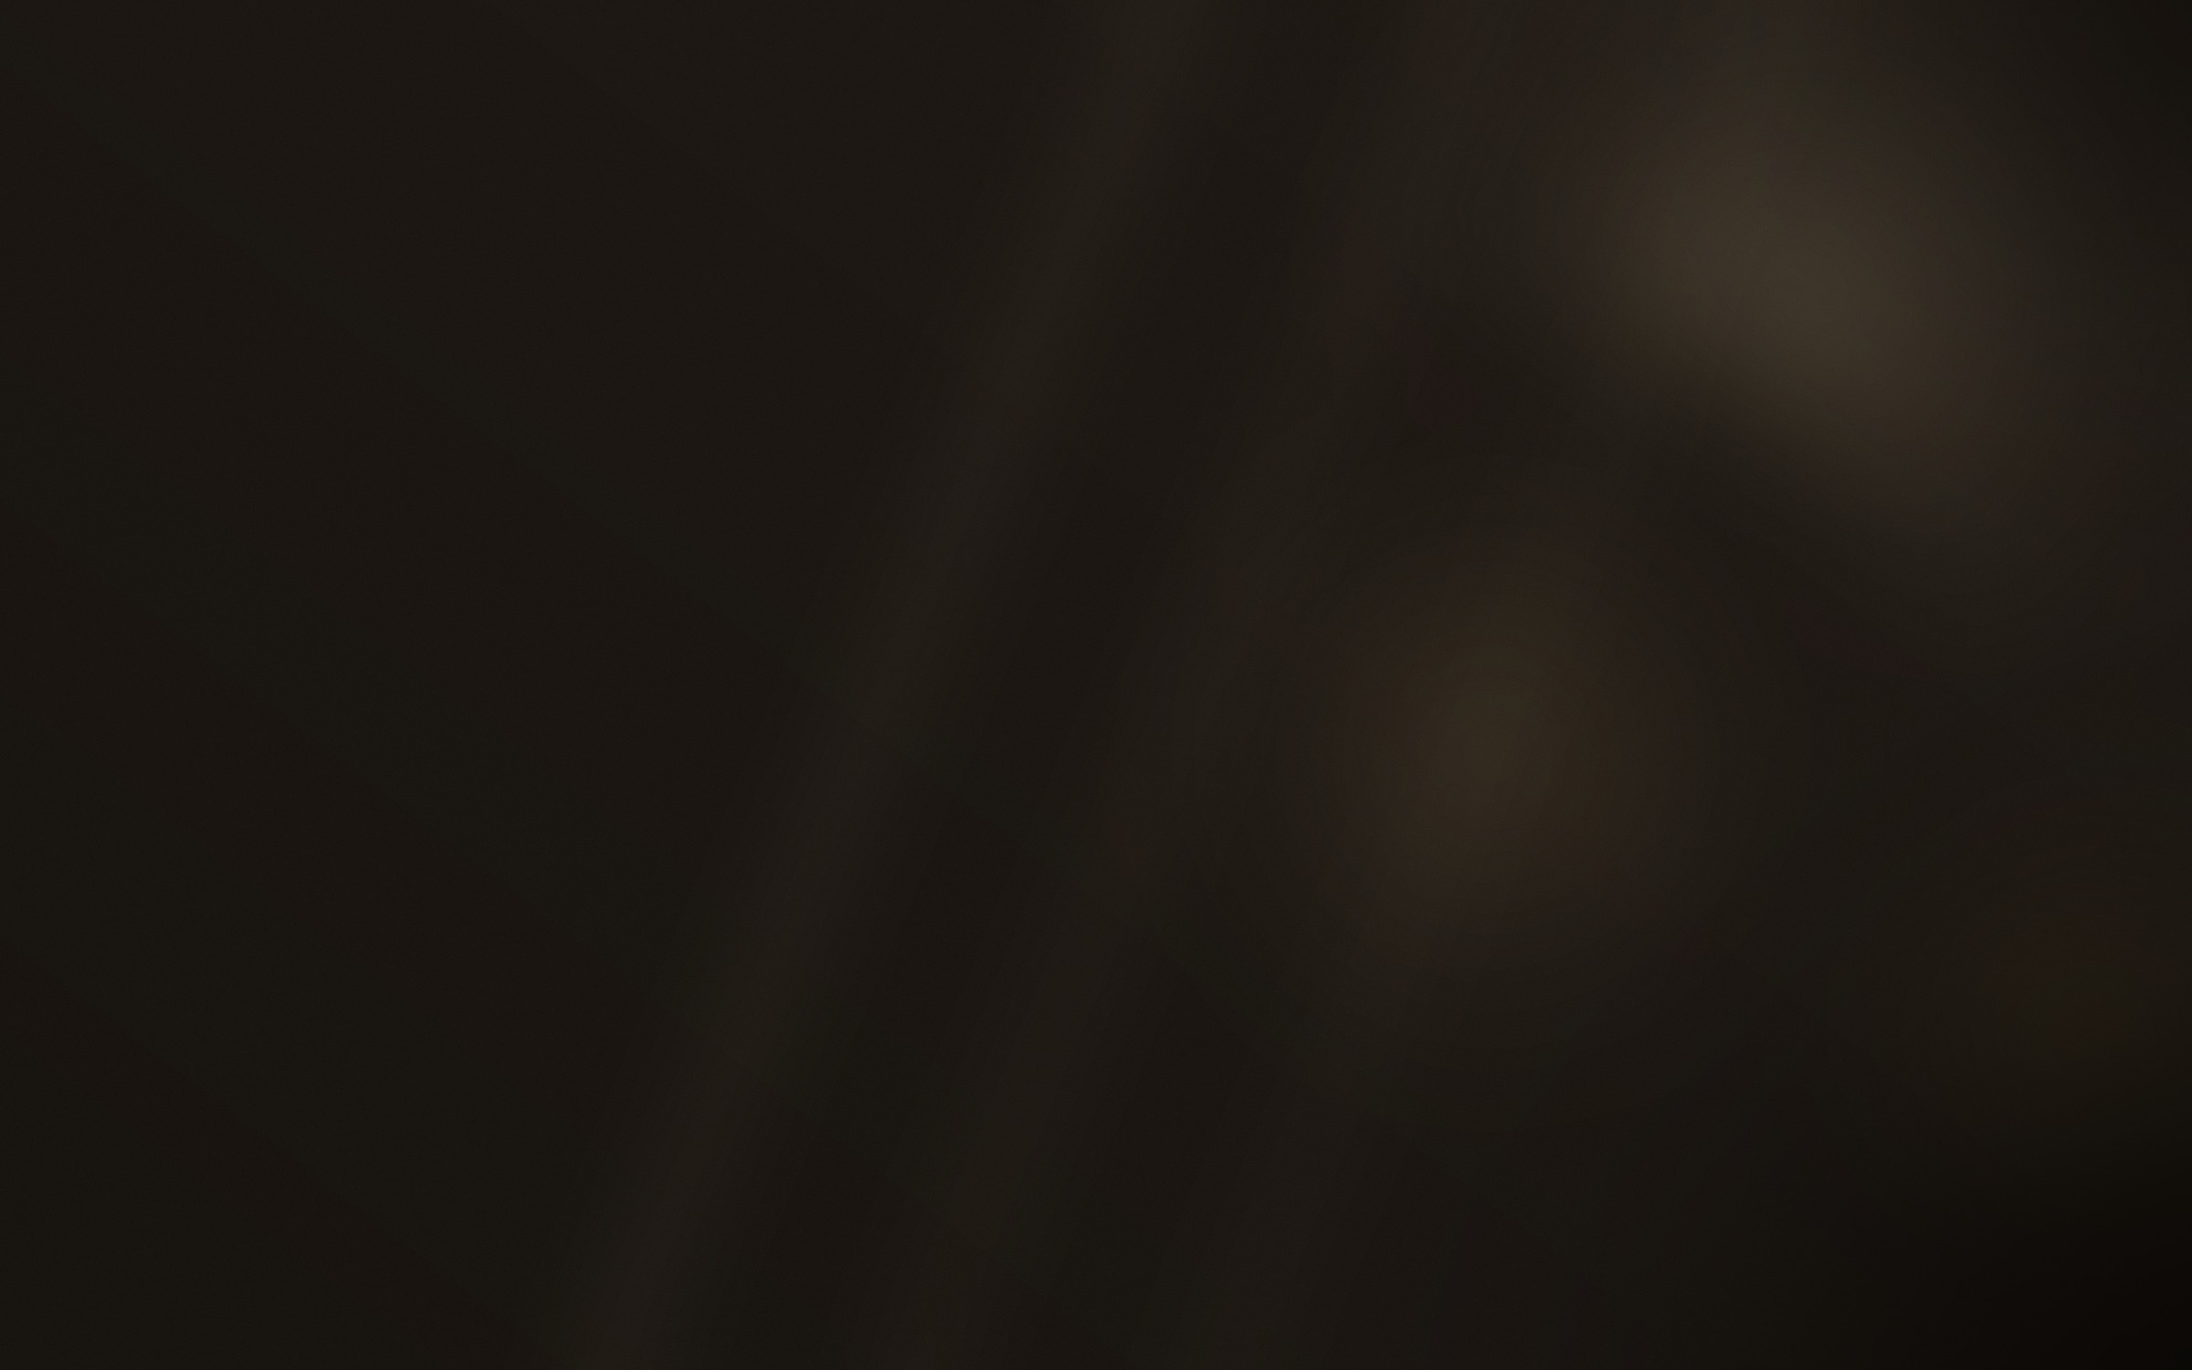
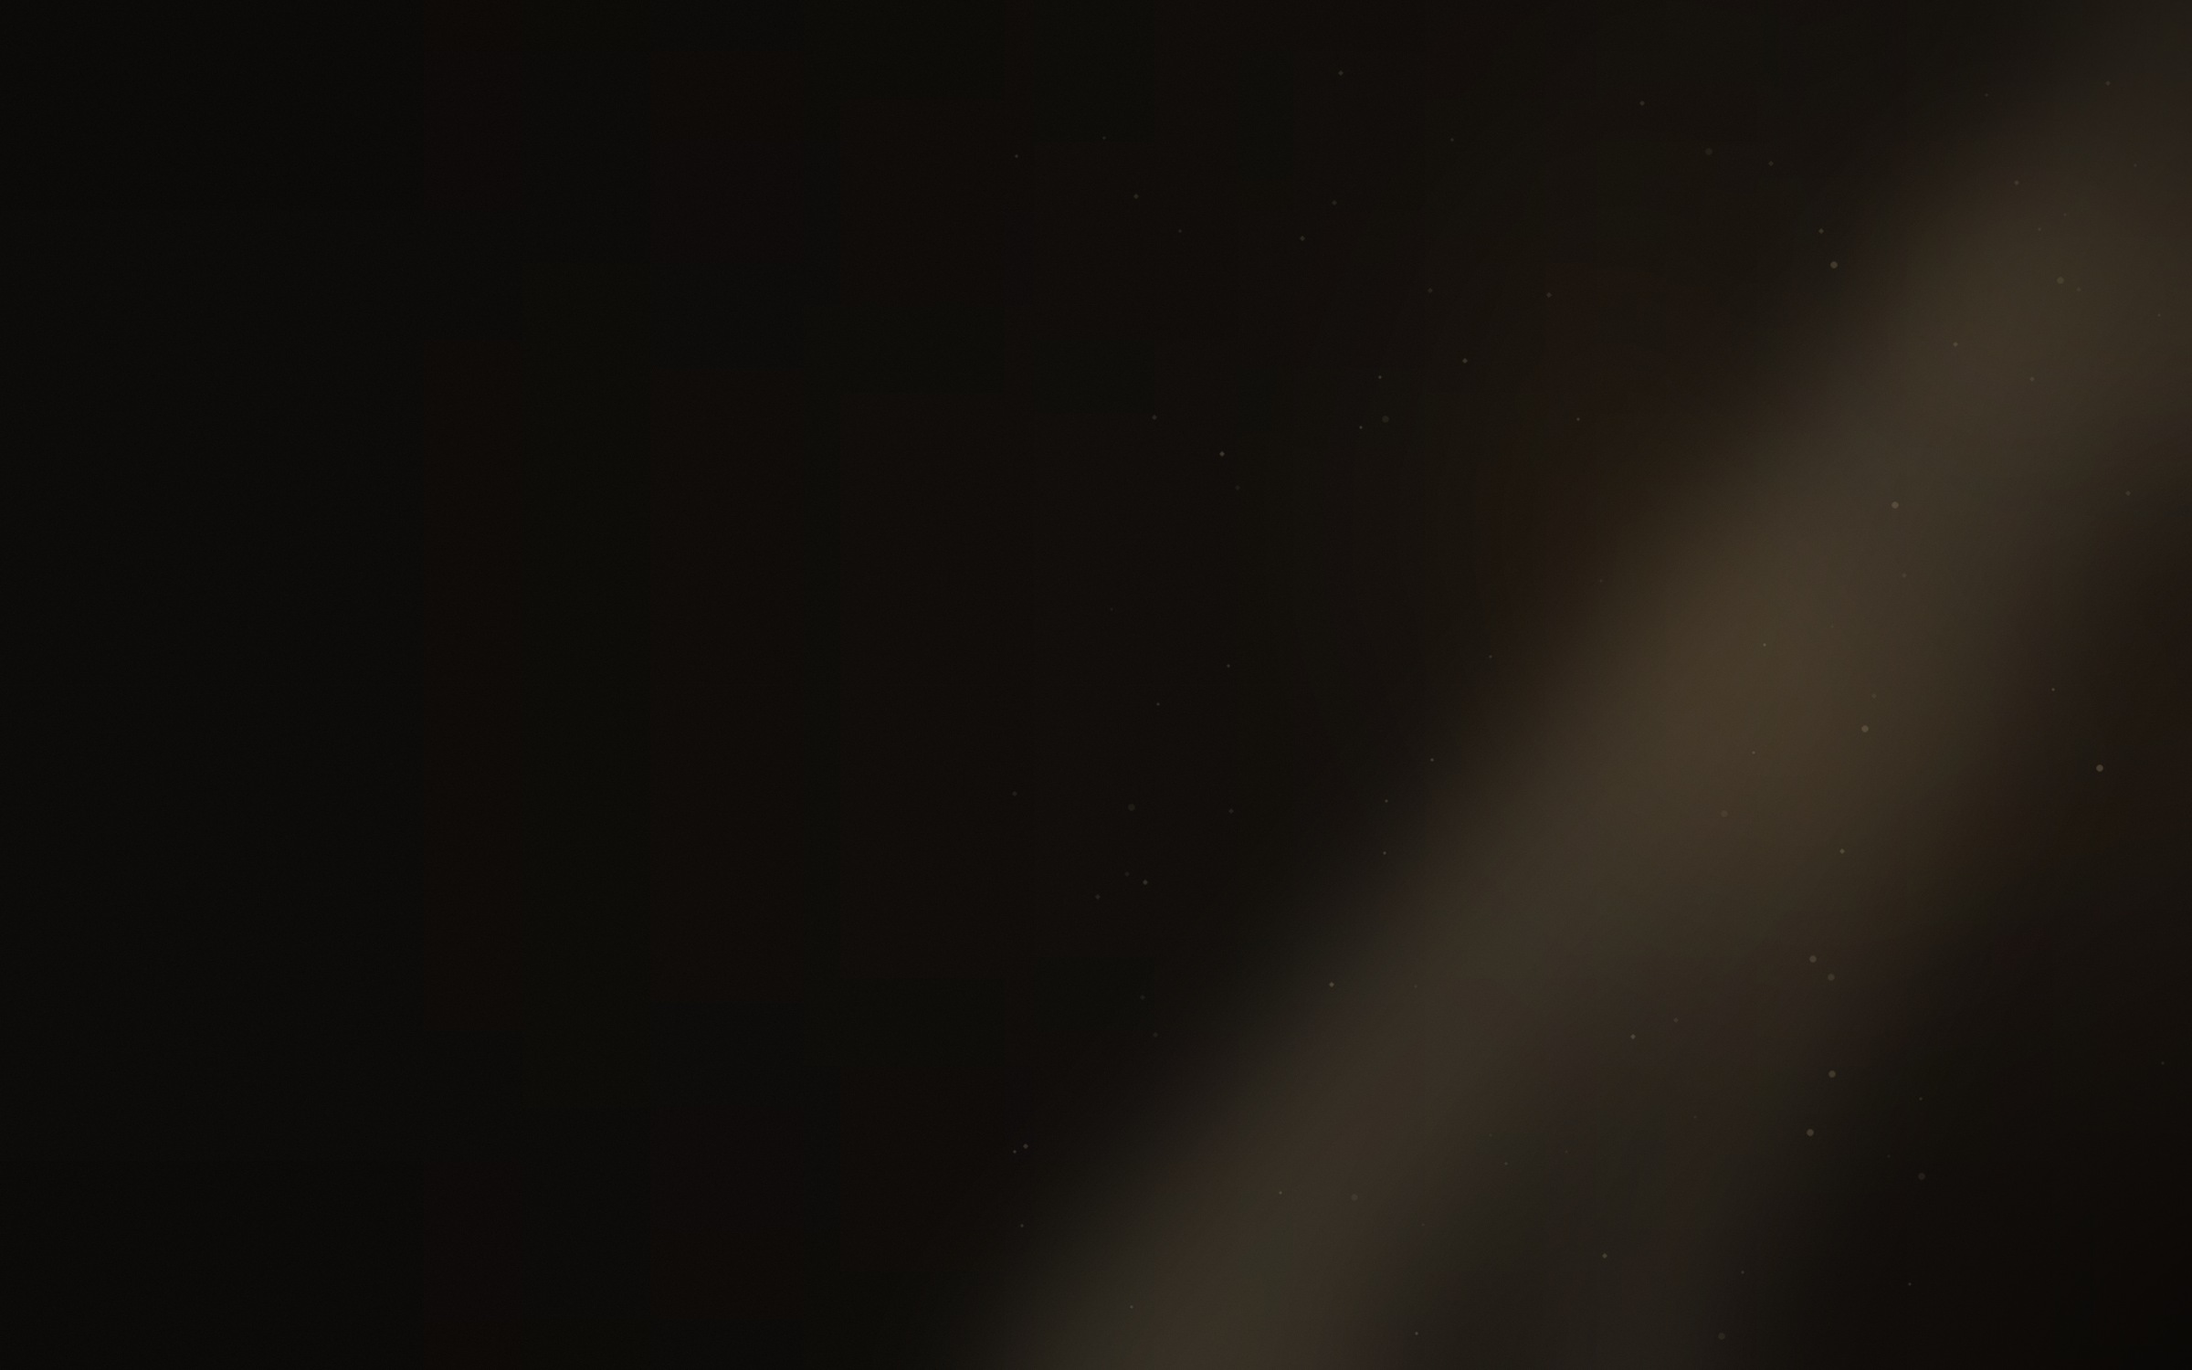
Style: Rediseño premium del Hero con foto de portada estilo YSL y CTAs de conversión

Changed region(s): [[0.75, 0.368, 0.9062, 0.6747], [0.7188, 0.0, 0.875, 0.2453], [0.5, 0.7667, 0.6875, 1.0]]

diff --git a/src/components/Hero.tsx b/src/components/Hero.tsx
@@ -3,11 +3,12 @@
 import Image from "next/image";
 import Link from "next/link";
 import { motion, type Variants } from "framer-motion";
-import Frasco from "./Frasco";
+import { Headset, MessageCircle, ShieldCheck, Sparkles, Truck } from "lucide-react";
+import { linkWhatsApp } from "@/lib/site";
 
 /**
- * Hero. Entrada escalonada con Framer Motion: kicker, título, subtítulo,
- * botones y garantías aparecen uno tras otro, no todos de golpe.
+ * Hero. Entrada escalonada con Framer Motion: badge, título, subtítulo,
+ * botones y puntos de confianza aparecen uno tras otro, no todos de golpe.
  */
 const contenedor: Variants = {
   oculto: {},
@@ -23,12 +24,20 @@ const item: Variants = {
   },
 };
 
+const PUNTOS_DE_CONFIANZA = [
+  { Icono: ShieldCheck, texto: "100% Originales Sellados" },
+  { Icono: Truck, texto: "Envíos a todo Uruguay" },
+  { Icono: Headset, texto: "Atención Personalizada" },
+] as const;
+
 export default function Hero() {
   return (
-    <section id="inicio" className="relative overflow-hidden pt-[104px]">
-      {/* Fondo atmosférico (imagen propia, generada, sin fotos de terceros)
-          + degradé oscuro encima para que el texto siempre tenga contraste,
-          sea cual sea el ancho de pantalla. */}
+    <section
+      id="inicio"
+      className="relative flex min-h-[88vh] items-center overflow-hidden pt-[104px]"
+    >
+      {/* Fondo (imagen propia, generada, sin fotos de terceros) + degradé
+          oscuro encima para que el texto siempre tenga contraste. */}
       <div aria-hidden className="absolute inset-0 -z-10">
         <Image
           src="/hero-bg.jpg"
@@ -38,40 +47,40 @@ export default function Hero() {
           sizes="100vw"
           className="object-cover"
         />
-        <div className="absolute inset-0 bg-gradient-to-r from-black/95 via-black/80 to-black/40" />
-        <div className="absolute inset-0 bg-gradient-to-t from-noche via-transparent to-transparent" />
+        <div className="absolute inset-0 bg-gradient-to-r from-black via-black/85 to-black/40" />
       </div>
-
-      {/* Resplandor cálido detrás del frasco, muy sutil. */}
-      <div
-        aria-hidden
-        className="pointer-events-none absolute right-[-10%] top-0 h-[600px] w-[600px] rounded-full bg-champan/10 blur-[120px]"
-      />
 
       <motion.div
         initial="oculto"
         animate="visible"
         variants={contenedor}
-        className="marco relative grid items-center gap-12 py-16 md:py-24 lg:grid-cols-[1.15fr_0.85fr] lg:gap-8"
+        className="marco relative py-16 md:py-20"
       >
-        <div className="max-w-[34ch]">
-          <motion.p variants={item} className="kicker">
-            Alta perfumería · Montevideo
-          </motion.p>
+        <div className="max-w-[36ch]">
+          <motion.span
+            variants={item}
+            className="inline-flex items-center gap-2 rounded-full border border-[#D4AF37]/50 bg-white/5 px-4 py-2 text-sm text-champan backdrop-blur-md"
+          >
+            <Sparkles className="h-4 w-4" aria-hidden />
+            Perfumería Árabe &amp; Diseñador en Uruguay
+          </motion.span>
+
           <motion.h1
             variants={item}
-            className="mt-4 font-display text-[length:var(--text-hero)] font-light leading-[0.95] tracking-[-0.02em] text-marfil"
+            className="mt-6 font-display text-[length:var(--text-hero)] font-light leading-[0.95] tracking-[-0.02em] text-marfil"
           >
-            Perfumes originales, sellados, al precio de Uruguay.
+            <span className="bg-gradient-to-r from-champan via-oro-claro to-[#D4AF37] bg-clip-text text-transparent">
+              Elegancia que deja huella
+            </span>
           </motion.h1>
 
           <motion.p
             variants={item}
             className="mt-7 max-w-[46ch] text-[1.05rem] leading-relaxed text-arena"
           >
-            Frascos completos de casas de nicho, diseñador y árabes. Comprás en
-            la web, pagás con Mercado Pago y te llega a tu casa con el celofán
-            de fábrica puesto.
+            Fragancias 100% originales con fijación extrema y estela
+            inolvidable. Recibí tu perfume sellado de origen en cualquier
+            punto del país.
           </motion.p>
 
           <motion.div
@@ -80,49 +89,35 @@ export default function Hero() {
           >
             <Link
               href="/catalogo"
-              className="rounded-full bg-champan px-8 py-4 text-center font-medium text-noche transition-transform duration-200 hover:scale-[1.02] hover:bg-oro-claro active:scale-[0.99]"
+              className="rounded-full bg-[#D4AF37] px-8 py-4 text-center font-semibold text-black transition-transform duration-200 hover:scale-[1.02] hover:bg-oro-claro active:scale-[0.99]"
             >
-              Ver perfumes en stock
+              Explorar Catálogo
             </Link>
-            <Link
-              href="#originales"
-              className="rounded-full border border-borde px-8 py-4 text-center text-marfil transition-colors hover:border-champan hover:text-champan"
+            <a
+              href={linkWhatsApp("Hola! Quiero asesoría para elegir un perfume")}
+              target="_blank"
+              rel="noopener noreferrer"
+              className="inline-flex items-center justify-center gap-2 rounded-full border border-white/25 bg-white/5 px-8 py-4 text-center text-marfil backdrop-blur-md transition-colors hover:border-champan hover:text-champan"
             >
-              Cómo garantizamos que es original
-            </Link>
+              <MessageCircle className="h-4 w-4" aria-hidden />
+              Asesoría por WhatsApp
+            </a>
           </motion.div>
 
-          {/* Garantías de confianza: las dos objeciones que frenan una
-              compra de perfumería online. */}
-          <motion.ul variants={item} className="mt-12 flex flex-col gap-3">
-            {[
-              "Garantía 100% Perfumes Sellados de Origen",
-              "Envíos asegurados por DAC y UES a todo Uruguay",
-            ].map((texto) => (
-              <li key={texto} className="flex items-center gap-3">
-                <span
-                  aria-hidden
-                  className="flex h-6 w-6 shrink-0 items-center justify-center rounded-full border border-oro-vivo/40 text-oro-vivo"
-                >
-                  <svg viewBox="0 0 24 24" className="h-3.5 w-3.5" fill="none">
-                    <path
-                      d="M5 13l4 4L19 7"
-                      stroke="currentColor"
-                      strokeWidth="2"
-                      strokeLinecap="round"
-                      strokeLinejoin="round"
-                    />
-                  </svg>
-                </span>
+          {/* Puntos de confianza: las objeciones que frenan una compra de
+              perfumería online, resueltas de un vistazo. */}
+          <motion.ul
+            variants={item}
+            className="mt-12 flex flex-wrap gap-x-8 gap-y-4"
+          >
+            {PUNTOS_DE_CONFIANZA.map(({ Icono, texto }) => (
+              <li key={texto} className="flex items-center gap-2.5">
+                <Icono className="h-5 w-5 shrink-0 text-[#D4AF37]" aria-hidden />
                 <span className="text-sm text-marfil">{texto}</span>
               </li>
             ))}
           </motion.ul>
         </div>
-
-        <motion.div variants={item} className="flex justify-center lg:justify-end">
-          <Frasco />
-        </motion.div>
       </motion.div>
     </section>
   );

diff --git a/src/app/page.tsx b/src/app/page.tsx
@@ -1,6 +1,5 @@
 import Header from "@/components/Header";
 import Hero from "@/components/Hero";
-import TrustBadges from "@/components/TrustBadges";
 import StockInmediato from "@/components/StockInmediato";
 import ExploraCategorias from "@/components/ExploraCategorias";
 import AsesorOlfativo from "@/components/AsesorOlfativo";
@@ -25,7 +24,6 @@ export default function Home() {
       <Header />
       <main id="contenido">
         <Hero />
-        <TrustBadges />
         <StockInmediato />
         <ExploraCategorias />
         <AsesorOlfativo />

diff --git a/scripts/gen_hero_bg.py b/scripts/gen_hero_bg.py
@@ -1,11 +1,16 @@
 #!/usr/bin/env python3
 """
-Genera public/hero-bg.jpg: fondo atmosférico oscuro con destellos dorados
-para el Hero. Es una imagen 100% generada acá (gradientes + ruido + blur),
-no una foto bajada de internet -- misma decisión que con og.jpg, para no
-tener ningún riesgo de derechos de autor sobre una imagen decorativa. El
-frasco (Frasco.tsx, SVG propio) sigue siendo el protagonista en primer
-plano; este fondo solo le da atmósfera y profundidad detrás.
+Genera public/hero-bg.jpg: fondo tipo "editorial de perfumería de alta
+gama" (negro profundo, luz ámbar direccional, sombras elegantes) para el
+Hero. Es 100% generado acá (gradientes + blur + grano), no una foto bajada
+de internet: una foto real de un frasco de marca (YSL u otra) tiene
+copyright de esa marca/fotógrafo, y usarla como portada de una tienda que
+no es distribuidor oficial es un riesgo real. En vez de intentar dibujar
+un frasco literal (que con formas simples termina viéndose como un ícono
+plano, no como vidrio), esto apuesta todo a luz y sombra -- un solo haz de
+luz ámbar entrando desde arriba a la derecha, como en un bodegón de
+estudio -- que es lo que de verdad lee como "foto de perfumería premium"
+sin representar ningún producto puntual.
 """
 
 import random
@@ -14,48 +19,89 @@ from PIL import Image, ImageDraw, ImageFilter
 
 ANCHO, ALTO = 2400, 1500
 
-NOCHE = (20, 16, 12)
-CARBON = (29, 23, 18)
-CHAMPAN = (217, 182, 121)
+NOCHE = (10, 8, 6)
+CARBON = (24, 18, 13)
+AMBAR = (198, 138, 58)
+AMBAR_CLARO = (232, 186, 112)
 ORO_CLARO = (235, 211, 163)
-ORO_VIVO = (196, 155, 74)
 
-random.seed(7)
+random.seed(11)
 
 
 def base_gradiente():
-    """Vertical + diagonal: más claro/cálido arriba-derecha, negro profundo
-    abajo-izquierda, para que el texto (que va a la izquierda) tenga
-    máximo contraste."""
+    """Negro casi puro a la izquierda (donde va el texto), apenas más
+    cálido a la derecha."""
     img = Image.new("RGB", (ANCHO, ALTO))
     px = img.load()
     for y in range(ALTO):
+        v = y / ALTO
         for x in range(0, ANCHO, 4):
-            t = (x / ANCHO) * 0.55 + (1 - y / ALTO) * 0.45
-            t = max(0.0, min(1.0, t))
+            t = (x / ANCHO) ** 1.6
             r = int(NOCHE[0] + (CARBON[0] - NOCHE[0]) * t)
             g = int(NOCHE[1] + (CARBON[1] - NOCHE[1]) * t)
             b = int(NOCHE[2] + (CARBON[2] - NOCHE[2]) * t)
+            sombra = 1 - 0.18 * abs(v - 0.5) * 2
+            r, g, b = int(r * sombra), int(g * sombra), int(b * sombra)
             for dx in range(4):
                 if x + dx < ANCHO:
                     px[x + dx, y] = (r, g, b)
     return img
 
 
-def resplandor(capa, centro, radio, color, alpha_max):
+def resplandor(capa, centro, radio_x, radio_y, color, alpha_max, potencia=2.2):
     draw = ImageDraw.Draw(capa)
-    pasos = 80
+    pasos = 90
     for i in range(pasos, 0, -1):
-        r = int(radio * i / pasos)
-        alpha = int(alpha_max * (1 - i / pasos) ** 2.2)
+        rx = int(radio_x * i / pasos)
+        ry = int(radio_y * i / pasos)
+        alpha = int(alpha_max * (1 - i / pasos) ** potencia)
         draw.ellipse(
-            [centro[0] - r, centro[1] - r, centro[0] + r, centro[1] + r],
+            [centro[0] - rx, centro[1] - ry, centro[0] + rx, centro[1] + ry],
             fill=(*color, alpha),
         )
 
 
-def ruido_fino(img, intensidad=6):
-    """Grano sutil para que el gradiente no se vea plano/banded."""
+def haz_de_luz(img):
+    """Un rayo de luz ámbar, angosto arriba y abriéndose hacia abajo, como
+    entrando por una claraboya -- el recurso clásico de bodegón de lujo."""
+    capa = Image.new("RGBA", img.size, (0, 0, 0, 0))
+    draw = ImageDraw.Draw(capa)
+
+    puntos = [
+        (ANCHO * 0.98, -80),
+        (ANCHO * 1.08, -80),
+        (ANCHO * 0.62, ALTO * 1.05),
+        (ANCHO * 0.40, ALTO * 1.05),
+    ]
+    draw.polygon(puntos, fill=(*ORO_CLARO, 46))
+
+    puntos2 = [
+        (ANCHO * 1.02, -80),
+        (ANCHO * 1.12, -80),
+        (ANCHO * 0.78, ALTO * 1.05),
+        (ANCHO * 0.66, ALTO * 1.05),
+    ]
+    draw.polygon(puntos2, fill=(*ORO_CLARO, 30))
+
+    capa = capa.filter(ImageFilter.GaussianBlur(90))
+    return Image.alpha_composite(img.convert("RGBA"), capa)
+
+
+def particulas(img):
+    """Motas de polvo suspendidas en el haz de luz, muy tenues."""
+    capa = Image.new("RGBA", img.size, (0, 0, 0, 0))
+    draw = ImageDraw.Draw(capa)
+    for _ in range(90):
+        x = random.randint(int(ANCHO * 0.45), ANCHO - 30)
+        y = random.randint(30, ALTO - 30)
+        r = random.uniform(1, 3.4)
+        alpha = random.randint(16, 55)
+        draw.ellipse([x - r, y - r, x + r, y + r], fill=(*ORO_CLARO, alpha))
+    capa = capa.filter(ImageFilter.GaussianBlur(0.7))
+    return Image.alpha_composite(img.convert("RGBA"), capa)
+
+
+def ruido_fino(img, intensidad=4):
     ruido = Image.effect_noise((ANCHO, ALTO), 24).convert("L")
     ruido_rgb = Image.merge("RGB", (ruido, ruido, ruido))
     return Image.blend(img, ruido_rgb, intensidad / 100)
@@ -64,47 +110,35 @@ def ruido_fino(img, intensidad=6):
 def main():
     img = base_gradiente().convert("RGBA")
 
-    # Halo dorado grande arriba a la derecha, donde después va a estar el
-    # espacio "vacío" detrás del frasco.
+    # Halos ámbar de fondo, concentrados a la derecha.
     halo = Image.new("RGBA", img.size, (0, 0, 0, 0))
-    resplandor(halo, (int(ANCHO * 0.82), int(ALTO * 0.22)), 620, ORO_CLARO, 60)
-    resplandor(halo, (int(ANCHO * 0.68), int(ALTO * 0.55)), 480, CHAMPAN, 40)
-    resplandor(halo, (int(ANCHO * 0.95), int(ALTO * 0.75)), 380, ORO_VIVO, 35)
-    halo = halo.filter(ImageFilter.GaussianBlur(70))
+    resplandor(halo, (int(ANCHO * 0.83), int(ALTO * 0.38)), 680, 780, AMBAR, 58)
+    resplandor(halo, (int(ANCHO * 0.92), int(ALTO * 0.22)), 360, 420, AMBAR_CLARO, 42)
+    halo = halo.filter(ImageFilter.GaussianBlur(110))
     img = Image.alpha_composite(img, halo)
 
-    # Un par de líneas de luz finas y diagonales, muy tenues, tipo destello
-    # de vidrio -- evocan el "filo-oro" que ya usa el resto del sitio.
-    lineas = Image.new("RGBA", img.size, (0, 0, 0, 0))
-    ld = ImageDraw.Draw(lineas)
-    for i in range(3):
-        x0 = ANCHO * (0.55 + i * 0.14)
-        ld.line(
-            [(x0, -100), (x0 - 700, ALTO + 100)],
-            fill=(*ORO_CLARO, 14 - i * 3),
-            width=140,
-        )
-    lineas = lineas.filter(ImageFilter.GaussianBlur(60))
-    img = Image.alpha_composite(img, lineas)
+    img = haz_de_luz(img)
+    img = particulas(img)
 
     img = img.convert("RGB")
     img = ruido_fino(img, intensidad=4)
 
-    # Viñeta final para que los bordes (sobre todo abajo-izquierda, donde
-    # va el texto) queden bien oscuros y con buen contraste.
+    # Viñeta: bien oscura arriba/abajo/izquierda, más abierta a la derecha
+    # -- así el degradé CSS que va encima (from-black via-black/85 to-black/40)
+    # tiene, del lado derecho, algo real que mostrar.
     vineta = Image.new("L", img.size, 0)
     vd = ImageDraw.Draw(vineta)
     vd.ellipse(
-        [-ANCHO * 0.3, -ALTO * 0.3, ANCHO * 1.05, ALTO * 1.15],
+        [-ANCHO * 0.22, -ALTO * 0.35, ANCHO * 1.05, ALTO * 1.25],
         fill=255,
     )
-    vineta = vineta.filter(ImageFilter.GaussianBlur(220))
-    negro = Image.new("RGB", img.size, (8, 6, 4))
+    vineta = vineta.filter(ImageFilter.GaussianBlur(210))
+    negro = Image.new("RGB", img.size, (5, 4, 3))
     img = Image.composite(img, negro, vineta)
 
     ruta = r"C:\Users\maxip\Downloads\tufraganciaideal\tufraganciaideal\public\hero-bg.jpg"
-    img.save(ruta, "JPEG", quality=92)
-    print("public/hero-bg.jpg generado:", img.size)
+    img.save(ruta, "JPEG", quality=93)
+    print("public/hero-bg.jpg regenerado:", img.size)
 
 
 if __name__ == "__main__":
